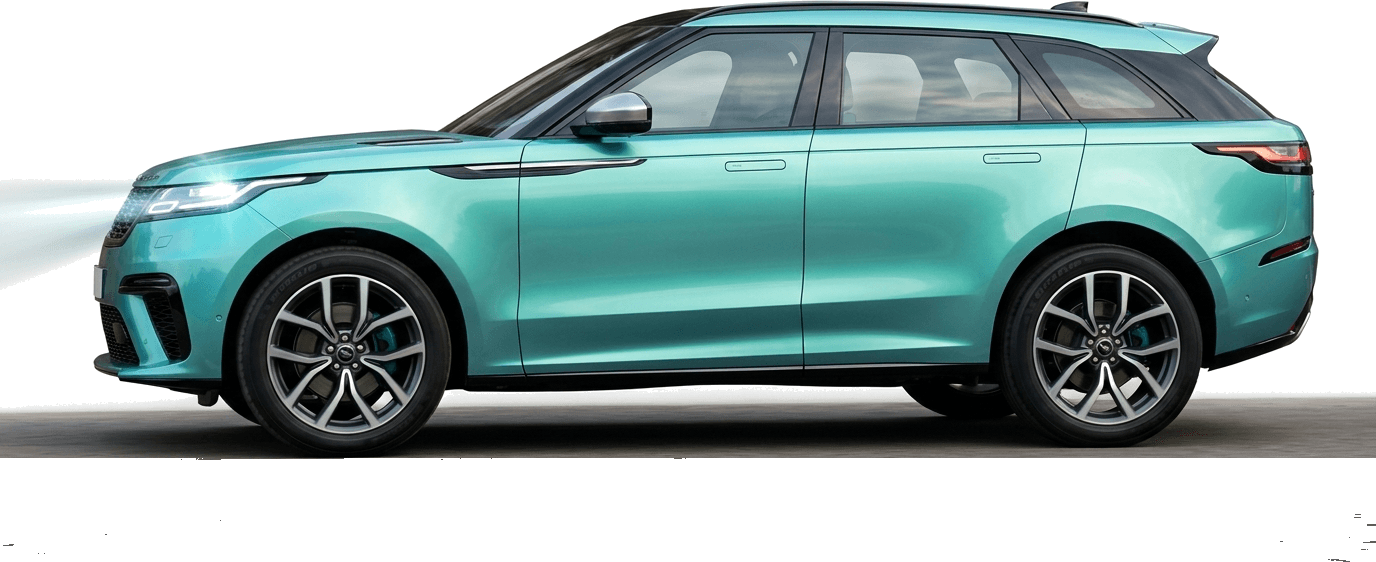
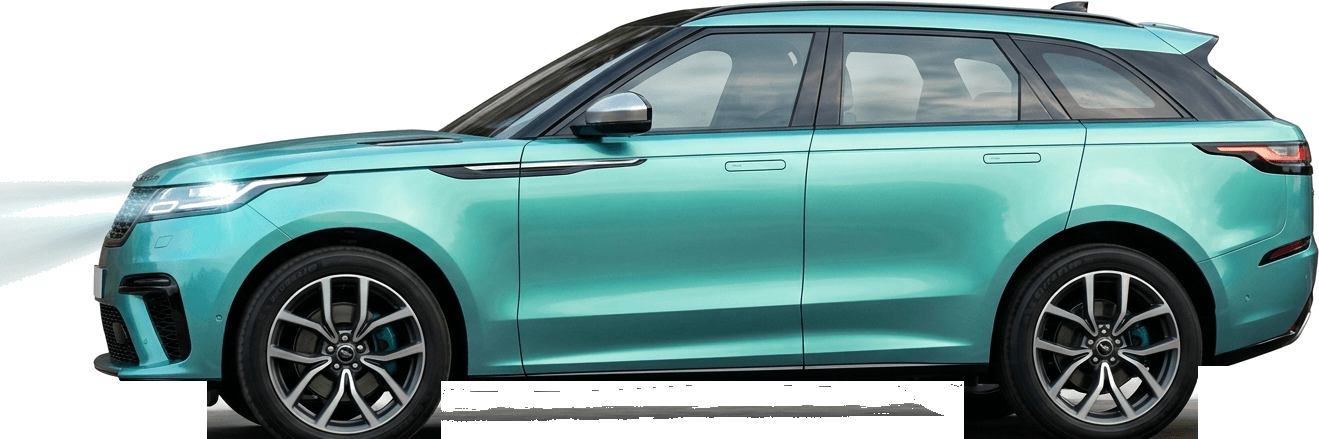
fix(ad): clean road from under car tires and apply solid #108474 background color

diff --git a/frontend/src/components/common/SiteVisitCarAd.tsx b/frontend/src/components/common/SiteVisitCarAd.tsx
@@ -19,16 +19,10 @@ export const SiteVisitCarAd: React.FC<SiteVisitCarAdProps> = ({ className = '' }
 
   return (
     <>
-      {/* Site Theme #108474 Animated Car Ad Ribbon */}
+      {/* Site Theme Solid #108474 Animated Car Ad Ribbon */}
       <div
-        className={`relative z-30 bg-[#108474] bg-gradient-to-r from-[#084138] via-[#108474] to-[#084138] text-white py-2 overflow-hidden border-b border-emerald-400/25 shadow-md select-none ${className}`}
+        className={`relative z-30 bg-[#108474] text-white py-2 overflow-hidden border-b border-[#0d6d5f] shadow-md select-none ${className}`}
       >
-        {/* Subtle Animated Road Track Lines */}
-        <div className="absolute inset-0 bg-[repeating-linear-gradient(90deg,transparent,transparent_80px,rgba(255,255,255,0.06)_80px,rgba(255,255,255,0.06)_140px)] pointer-events-none" />
-
-        {/* Ambient Top Glow Line */}
-        <div className="absolute top-0 inset-x-0 h-[1px] bg-gradient-to-r from-transparent via-emerald-300/50 to-transparent" />
-
         {/* Dismiss Button */}
         <button
           type="button"
